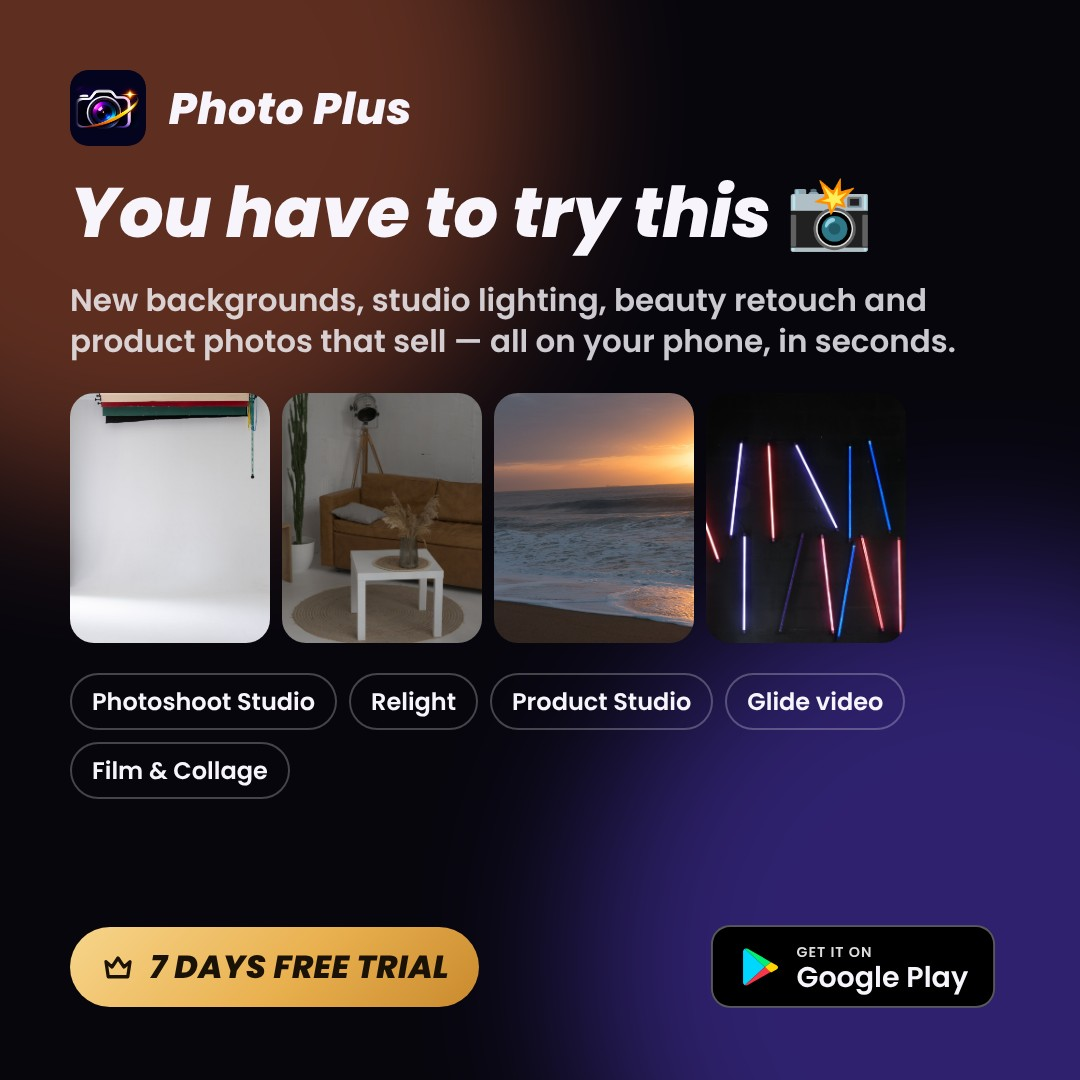
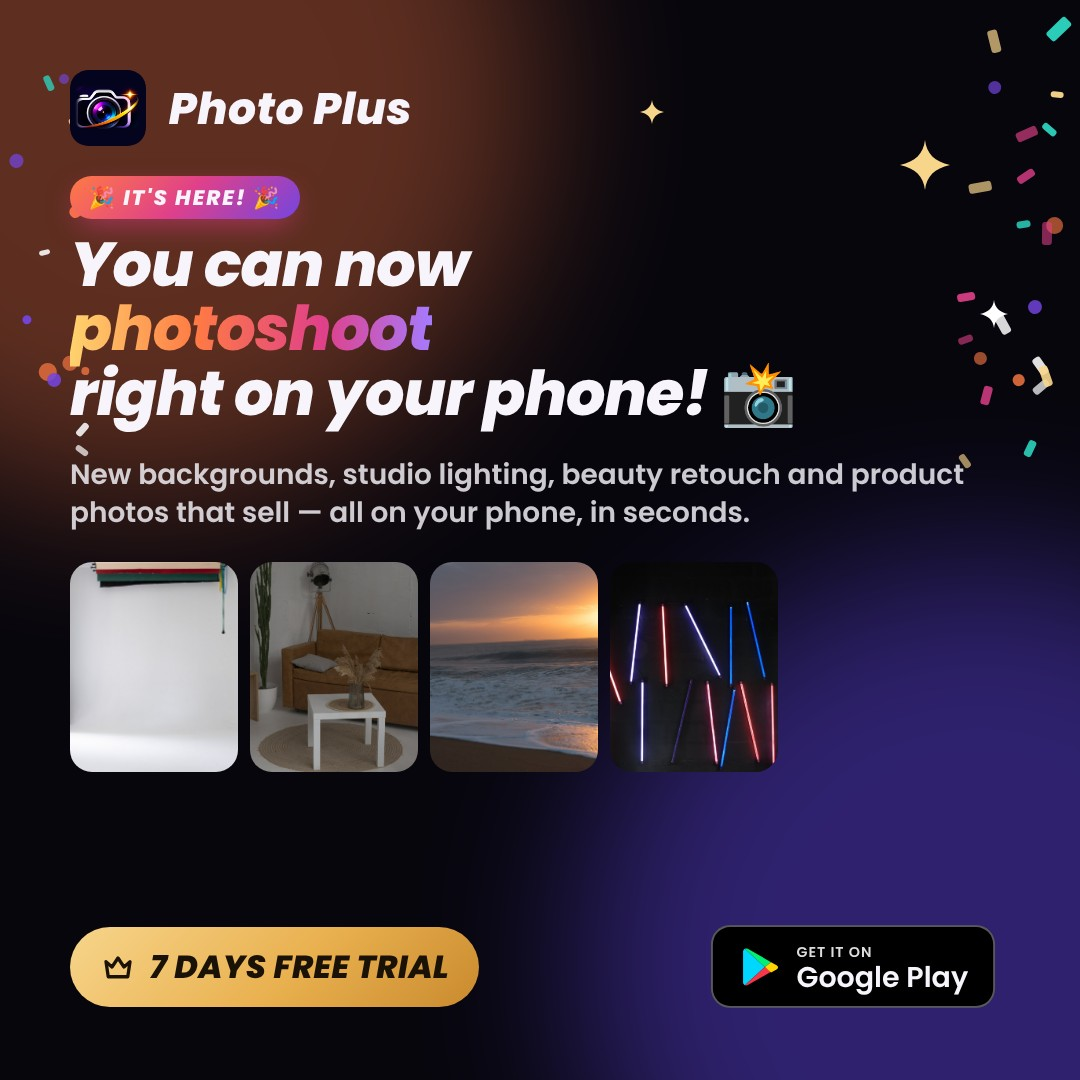
Share campaign: 'You can now photoshoot right on your phone!' headline; link and hashtags in the caption
The three share pictures lead with the new headline as a celebration
(an IT'S HERE! ribbon, photoshoot in the brand gradient, confetti and
sparkles along the sides). No link or hashtags are drawn on the
pictures any more: every caption opens with the headline, puts the Play
Store link on its own line (tappable) and the hashtags last (recognised
by the apps), and is sent beside the picture. It is also copied to the
clipboard for apps that keep only the picture.

Claude-Session: https://claude.ai/code/session_017Dx6HQudFpAYYYPyoSw3qJ

diff --git a/src/services/rewards/campaign.ts b/src/services/rewards/campaign.ts
@@ -51,10 +51,17 @@ export const SHARE_STYLES: readonly ShareStyle[] = [
 ];
 export const shareStyle = (id: ShareForm) => SHARE_STYLES.find(s => s.id === id) ?? SHARE_STYLES[0];
 
+/** The headline of every share, as on the pictures. */
+export const HEADLINE = '🎉 You can now photoshoot right on your phone! 📸';
+
+// Each caption is sent as the text beside the picture, so the link (on its
+// own line) can be tapped and the hashtags (the last line) are recognised
+// by the app. Neither is drawn on the pictures.
 const POST_TEXTS = [
   (link: string) =>
-    `📸 Studio-quality photos, straight from my phone — meet Photo Plus! ✨
+    `${HEADLINE}
 
+Meet Photo Plus ✨
 ✅ Be in a real studio, park or café without leaving home
 ✅ Pro studio lighting on any photo with Relight
 ✅ Clean product photos that sell, with real shadows
@@ -64,46 +71,60 @@ const POST_TEXTS = [
 No studio. No laptop. No experience needed.
 🎁 Try Premium FREE for ${TRIAL_DAYS} days!
 
-📲 Download on Google Play: ${link}
+📲 Download on Google Play:
+${link}
 
 ${HASHTAGS.join(' ')}`,
   (link: string) =>
-    `My phone just became a photo studio 🤯📷
+    `${HEADLINE}
 
-Photo Plus swaps your background for a real studio scene, adds pro lighting, retouches skin naturally and turns product snaps into catalogue shots — all on the phone, in seconds.
+My phone just became a photo studio 🤯 Photo Plus swaps your background for a real studio scene, adds pro lighting, retouches skin naturally and turns product snaps into catalogue shots — in seconds.
 
 🎁 ${TRIAL_DAYS} days FREE trial of Premium
-👉 Get it on Google Play: ${link}
+
+👉 Get it on Google Play:
+${link}
 
 ${HASHTAGS.join(' ')}`,
   (link: string) =>
-    `Stop paying for photoshoots 💸 — I make mine with Photo Plus ✨
+    `${HEADLINE}
 
+Stop paying for photoshoots 💸 — make yours with Photo Plus ✨
 📸 Photoshoot Studio · 💡 Relight · 🛍 Product Studio · 💄 Beauty & Spotlight · 🎬 Glide video
 
 Perfect for creators, sellers and anyone who loves great photos.
 🎁 Start with a ${TRIAL_DAYS}-day free trial.
 
-Download free 👉 ${link}
+Download free 👉
+${link}
 
 ${HASHTAGS.join(' ')}`,
 ];
 
 const FRIEND_TEXTS = [
   (link: string) =>
-    `Hey! 👋 You have to try Photo Plus 📸 I use it to make my photos look like a real photoshoot — new backgrounds, studio lighting, natural beauty retouch, even clean product photos for selling. It's super easy and it all happens on your phone.
+    `${HEADLINE}
+
+Hey! 👋 You have to try Photo Plus. I use it to make my photos look like a real photoshoot — new backgrounds, studio lighting, natural beauty retouch, even clean product photos for selling. It all happens on your phone.
 
 You can try Premium FREE for ${TRIAL_DAYS} days 🎁
-Get it here 👉 ${link}`,
+Get it here 👇
+${link}`,
   (link: string) =>
-    `Look what my phone can do now 😍 Photo Plus puts you in a real studio, relights your photos like a pro and makes product shots look professional — in seconds.
+    `${HEADLINE}
+
+Look what my phone can do now 😍 Photo Plus puts you in a real studio, relights your photos like a pro and makes product shots look professional — in seconds.
 
 🎁 ${TRIAL_DAYS}-day free trial of Premium
-Download it free on Google Play 👉 ${link}`,
+Download it free on Google Play 👇
+${link}`,
   (link: string) =>
-    `Found the best photo app 🔥 Photo Plus: studio backgrounds, pro lighting, beauty retouch, product photos and smooth Glide videos, all on the phone.
+    `${HEADLINE}
 
-Try it with ${TRIAL_DAYS} days free 🎁 👉 ${link}`,
+Found the best photo app 🔥 Photo Plus: studio backgrounds, pro lighting, beauty retouch, product photos and smooth Glide videos.
+
+Try it with ${TRIAL_DAYS} days free 🎁
+${link}`,
 ];
 
 /** The words for a share (they change from share to share, so posts don't look copied). */

diff --git a/__tests__/rewards.test.tsx b/__tests__/rewards.test.tsx
@@ -6,7 +6,7 @@ import { PremiumSheet } from '../src/components/PremiumSheet';
 import { PremiumScreen } from '../src/screens/premium/PremiumScreen';
 import { RewardsScreen } from '../src/screens/premium/RewardsScreen';
 import { perMonth, PLANS, PRICES_CONFIRMED, savings, SUBSCRIPTION_ID, TRIAL_DAYS } from '../src/services/billing/plans';
-import { HASHTAGS, PLAY_URL, SHARE_APPS, SHARE_STYLES, shareText } from '../src/services/rewards/campaign';
+import { HASHTAGS, HEADLINE, PLAY_URL, SHARE_APPS, SHARE_STYLES, shareText } from '../src/services/rewards/campaign';
 import { isRewardsState, recordActivity, type RewardsState } from '../src/services/rewards/RewardsService';
 import { useAppStore } from '../src/state/store';
 import { ThemeProvider } from '../src/theme';
@@ -199,6 +199,10 @@ describe('the share campaign', () => {
       expect(new Set(texts).size).toBe(3);
       for (const t of texts) {
         expect(t).toContain(PLAY_URL);
+        // The headline first; the link on a line of its own (tappable); hashtags, if any, last.
+        expect(t.startsWith(HEADLINE)).toBe(true);
+        expect(t.split('\n').some(line => line.startsWith(PLAY_URL))).toBe(true);
+        expect(t.trimEnd().endsWith(form === 'friends' ? t.split('\n').at(-1)! : HASHTAGS.join(' '))).toBe(true);
         expect(t).toMatch(/7[- ]days? free|FREE for 7 days|7 days FREE/i);
         // Posts carry the hashtags; a note to friends does not.
         expect(t.includes(HASHTAGS.join(' '))).toBe(form !== 'friends');

diff --git a/android/app/src/main/java/com/photoplus/rewards/RewardsModule.kt b/android/app/src/main/java/com/photoplus/rewards/RewardsModule.kt
@@ -142,6 +142,12 @@ class RewardsModule(reactContext: ReactApplicationContext) : NativePhotoPlusRewa
       clipData = ClipData.newUri(reactApplicationContext.contentResolver, "Photo Plus", uri)
       if (activity.isNotEmpty()) component = ComponentName(target, activity) else setPackage(target)
     }
+    // The words also go to the clipboard: an app that keeps only the
+    // picture (some feeds do) can have them pasted, link and hashtags too.
+    runCatching {
+      val clipboard = reactApplicationContext.getSystemService(android.content.ClipboardManager::class.java)
+      clipboard?.setPrimaryClip(android.content.ClipData.newPlainText("Photo Plus", text.take(2000)))
+    }
     try {
       host.startActivity(send)
     } catch (_: android.content.ActivityNotFoundException) {

diff --git a/src/screens/premium/RewardsScreen.tsx b/src/screens/premium/RewardsScreen.tsx
@@ -386,6 +386,10 @@ export function RewardsScreen({ navigation }: RootScreenProps<'Rewards'>) {
                   {text}
                 </AppText>
               </View>
+              <AppText variant="caption" tone="tertiary" testID="rewards-share-caption-note">
+                The link and hashtags go with the picture as text, so they can be tapped. They’re also copied: paste
+                them if an app leaves them out.
+              </AppText>
               <Button
                 label="Choose an app to share to"
                 icon="share"

diff --git a/docs/REWARDS_AND_PLANS_REPORT.md b/docs/REWARDS_AND_PLANS_REPORT.md
@@ -55,6 +55,11 @@ Rewards are a real taste of Premium, not a substitute for it, and they bring ad 
 
 ## The share campaign
 
+**Headline.** Every picture and caption leads with **"You can now photoshoot right on your phone!"**, styled as a celebration: an "IT'S HERE!" ribbon, the word *photoshoot* in the brand gradient, confetti and sparkles along the sides.
+
+**What's in the picture and what isn't.** The pictures carry no link and no hashtags. Both go in the caption sent with the picture, so the link (on a line of its own) can be tapped and the hashtags (the last line) are recognised by the app. The caption is also copied to the clipboard, so it can be pasted into apps that keep only the picture.
+
+
 - **Goal:** share Photo Plus 30 times for 2 days of Premium. It opens again 30 days after it is completed.
 - **Per-app lock:** each app counts once every 8 hours, whatever form was shared.
   - An app opened from the list counts when it opens.
